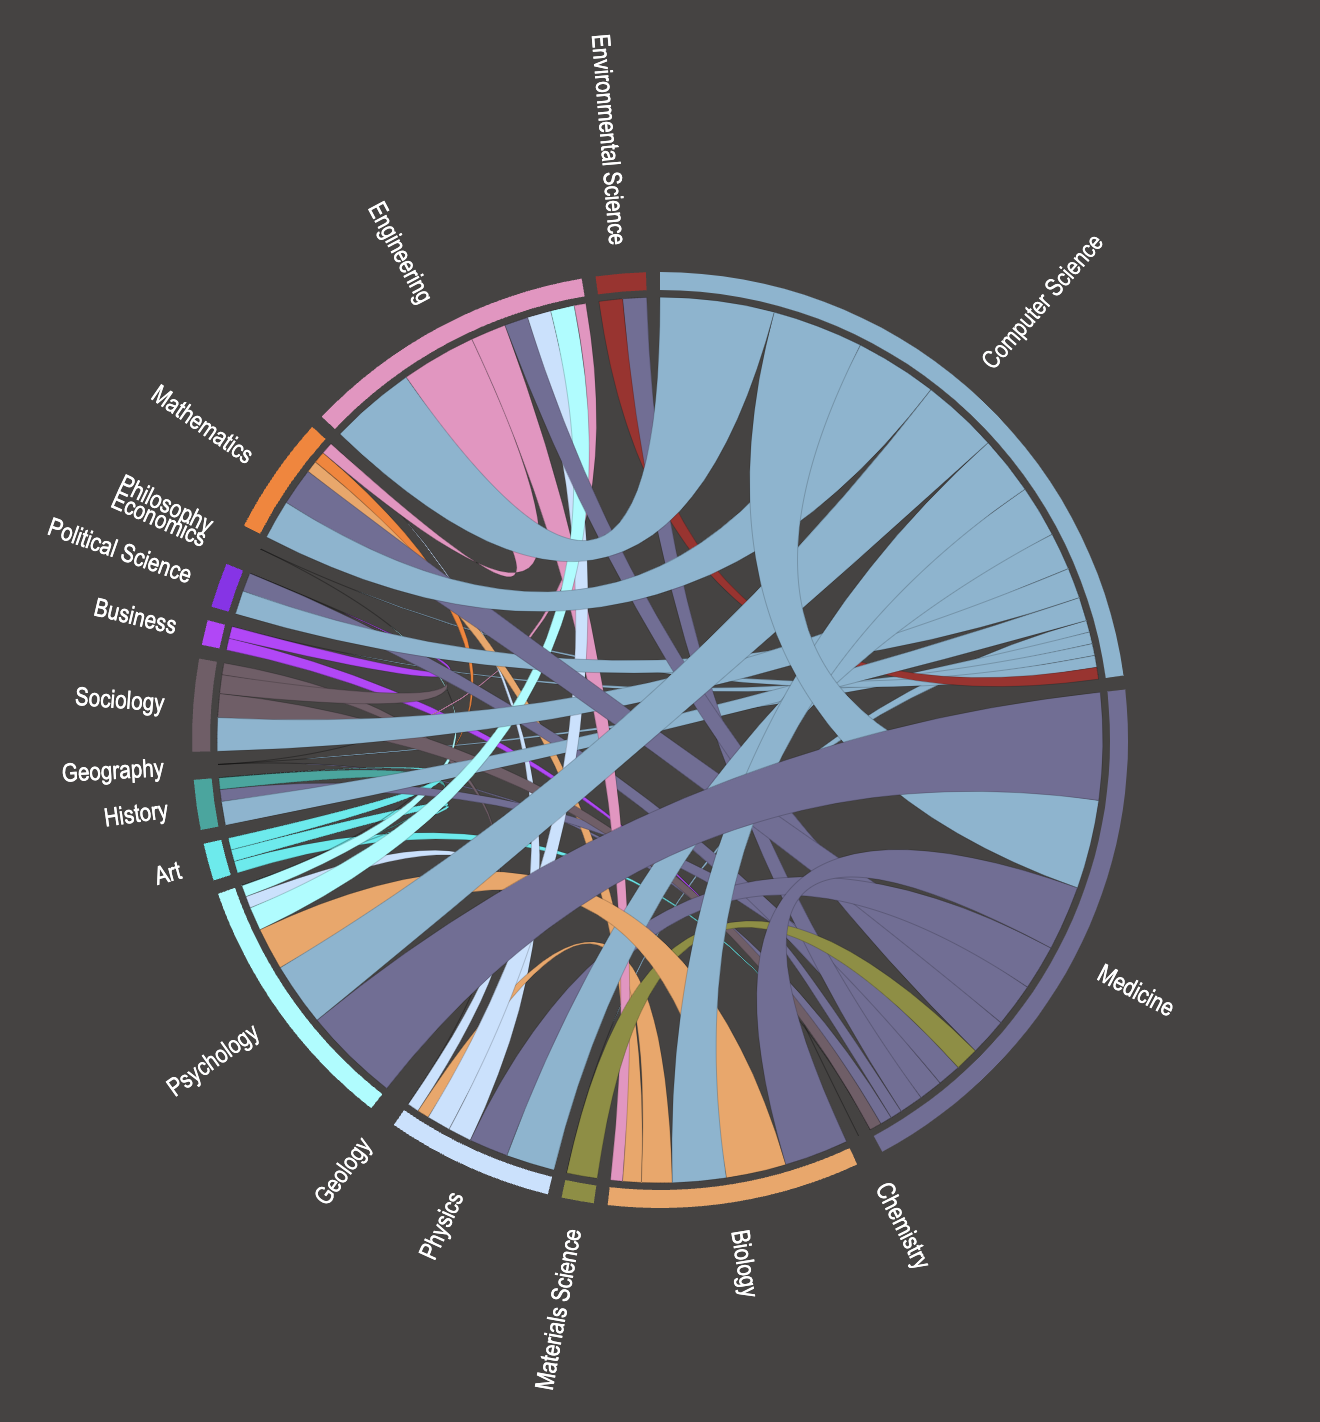
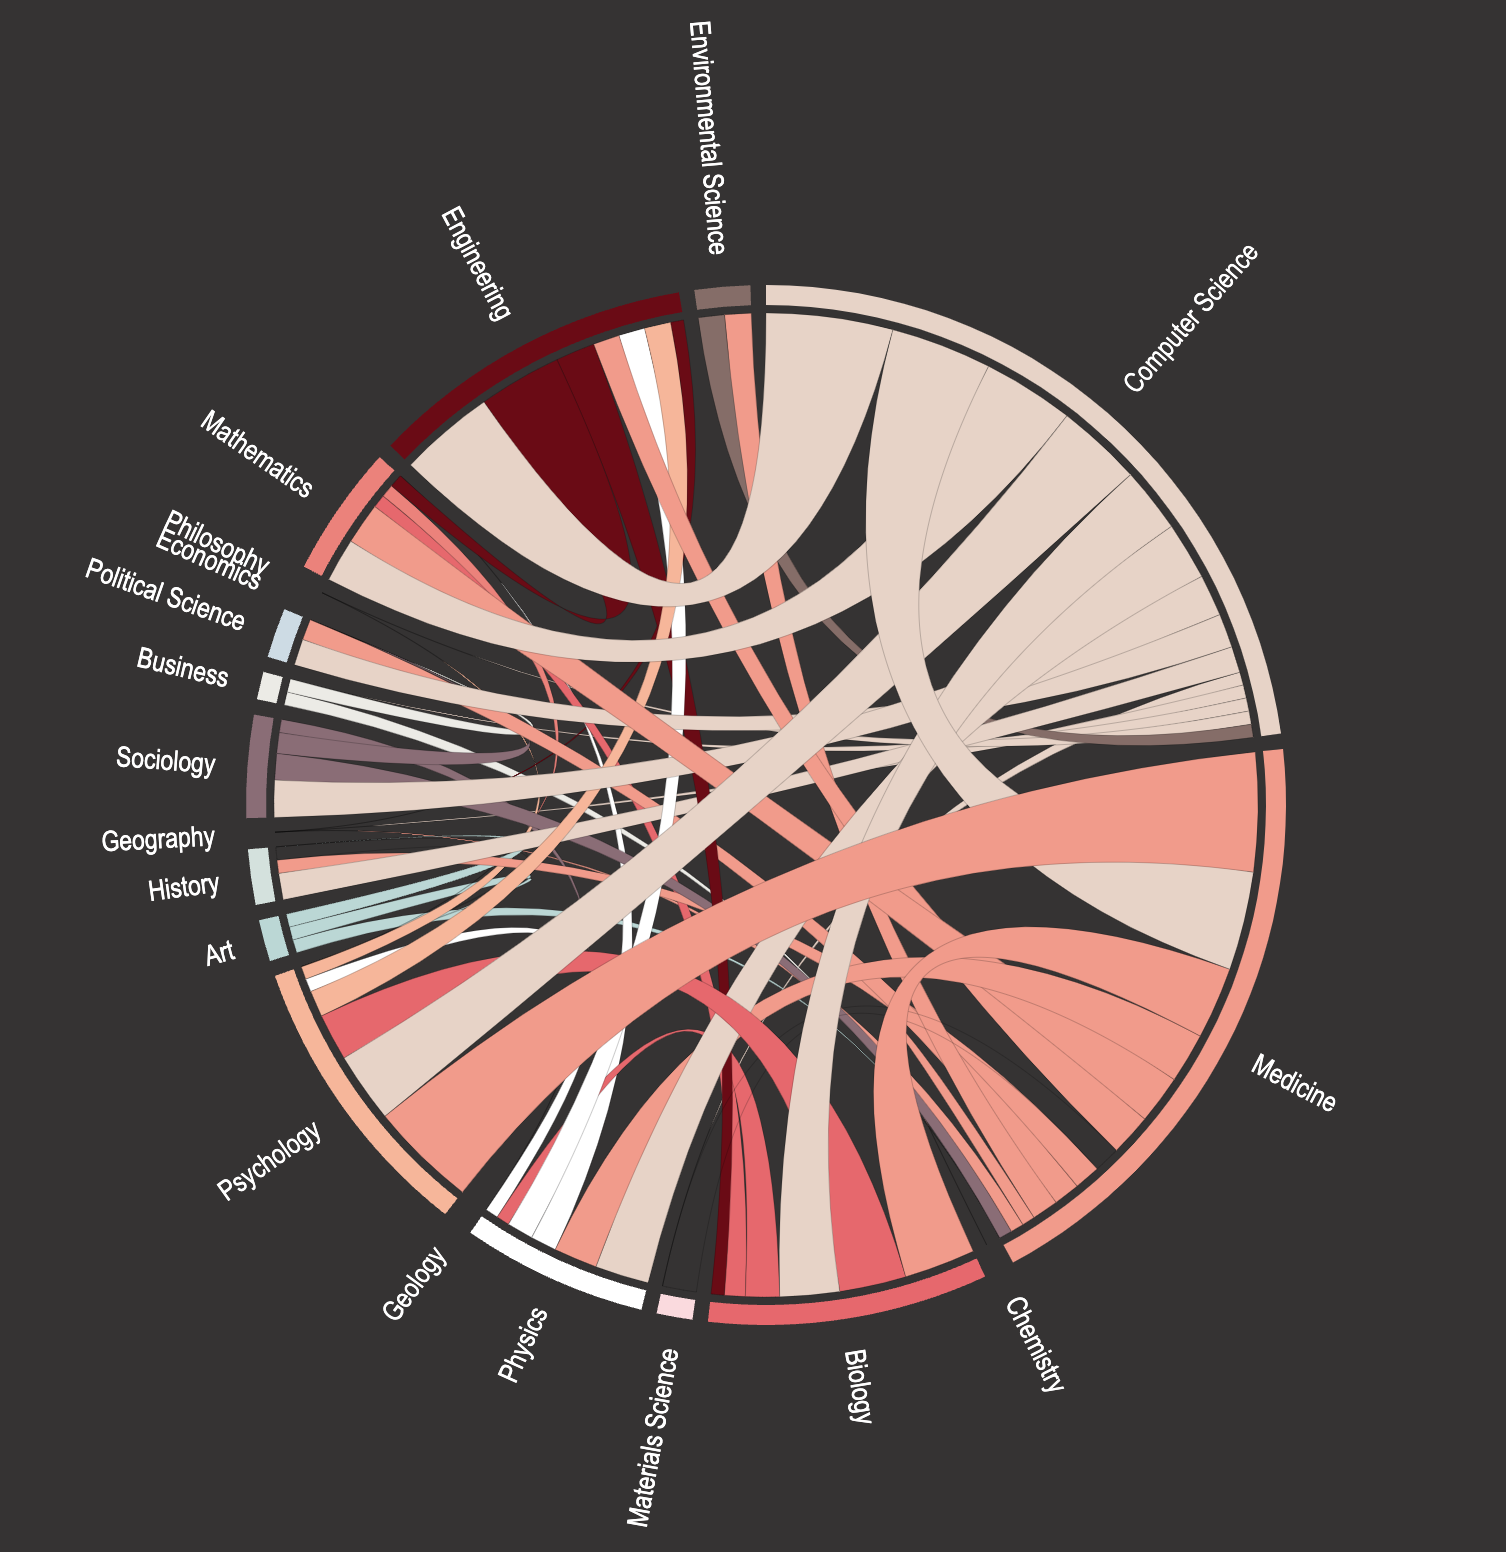
update chord color

diff --git a/public/chord/index.html b/public/chord/index.html
@@ -25,8 +25,8 @@
                               $(this).addClass('current');
                          });
   </script>
-<!--The data comes from FAO Yearbooks on fisheries http://www.fao.org/fishery/publications/yearbooks/en-->
-<!--Created by Luz K. Molina, www.databayou.com-->
+
+
     <div id="legend">
 
       <table class="table1">
@@ -37,34 +37,21 @@
                      </td>  
         </tr>
         <tr>
-          <td bgcolor="#FF00FF" width="10%">
+          <td bgcolor="#eddcd2" width="10%">
                     </td>
                     <td><a class="two" id="NA" href = "#">Computer Science</a>
-                        <!-- <table class="table2">
-                            <tr>
-                                <td><h3>Major field number</h3></td>
-                            </tr>
-                            <tr>
-                                <td width="90%"></td>
-                            </tr>
-                        </table> -->
+                        
                      </td>  
         </tr> 
                 <tr>
-          <td bgcolor="#0000FF">
+          <td bgcolor="#f8ad9d">
                     </td>
                     <td><a class="two" id="NA" href = "#">Medicine</a>
-                         <!-- <table class="table2">
-                            <tr>
-                                <td><h3>Countries</h3></td>
-                            </tr>
-                            <tr>  <td>Austria</br>Belgium</br>Denmark</br>Finland</br>France</br>Germany</br>Greece</br>Ireland</br>Italy</br>Luxembourg</br>Netherlands</br>Portugal</br>Spain</br>Sweden</br>UK</br>Bulgaria</br>Cyprus</br>Czech</br>Estonia</br>Hungary</br>Latvia</br>Lithuania</br>Malta</br>Poland</br>Romania</br>Slovakia</br>Slovenia</td>
-                            </tr>
-                        </table> -->
+                         
                      </td>  
         </tr>
                 <tr>
-          <td bgcolor="#6495ED">
+          <td bgcolor="#FBC4AB">
                     </td>
                     <td><a class="two" id="NA" href = "#">Chemistry</a>
                          <!-- <table class="table2">
@@ -78,7 +65,7 @@
                      </td>  
         </tr>
                 <tr>
-          <td bgcolor="#F4A460">
+          <td bgcolor="#f08080">
                     </td>
                     <td><a class="two" id="NA" href = "#">Biology</a>
                          <!-- <table class="table2">
@@ -92,7 +79,7 @@
                      </td>  
         </tr>
                 <tr>
-          <td bgcolor="#8E8E38">
+          <td bgcolor="#fde2e4">
                     </td>
                     <td><a class="two" id="NA" href = "#">Materials Science</a>
                          <!-- <table class="table2">
@@ -106,7 +93,7 @@
                      </td>  
         </tr>
                 <tr>
-          <td bgcolor="#C6E2FF">
+          <td bgcolor="#ffffff">
                     </td>
                     <td><a class="two" id="NA" href = "#">Physics</a>
                          <!-- <table class="table2">
@@ -120,7 +107,7 @@
                      </td>  
         </tr>
                 <tr>
-          <td bgcolor="#D8BFD8">
+          <td bgcolor="#fad2e1">
                     </td>
                     <td><a class="two" id="NA" href = "#">Geology</a>
                          <!-- <table class="table2">
@@ -134,7 +121,7 @@
                      </td>  
         </tr>
                 <tr>
-          <td bgcolor="#97FFFF">
+          <td bgcolor="#fbc4ab">
                     </td>
                     <td><a class="two" id="NA" href = "#">Psychology</a>
                          <!-- <table class="table2">
@@ -148,7 +135,7 @@
                      </td>  
         </tr>
                 <tr>
-          <td bgcolor="#00EEEE">
+          <td bgcolor="#c5dedd">
                     </td></td>
                     <td><a class="two" id="NA" href = "#">Art</a>
                          <!-- <table class="table2">
@@ -162,7 +149,7 @@
                      </td>  
         </tr>
                 <tr>
-          <td bgcolor="#03A89E">
+          <td bgcolor="#dbe7e4">
                     </td>
                     <td><a class="two" id="NA" href = "#">History</a>
                          <!-- <table class="table2">
@@ -176,7 +163,7 @@
                      </td>  
         </tr>
                 <tr>
-          <td bgcolor="#00FF7F">
+          <td bgcolor="#ffdab9">
                     </td>
                     <td><a class="two" id="NA" href = "#">Geography</a>
                          <!-- <table class="table2">
@@ -190,7 +177,7 @@
                      </td>  
         </tr>
                 <tr>
-          <td bgcolor="#800080">
+          <td bgcolor="#9d8189">
                     </td>
                     <td><a class="two" id="NA" href = "#">Sociology</a>
                          <!-- <table class="table2">
@@ -204,7 +191,7 @@
                      </td>  
         </tr>
                 <tr>
-          <td bgcolor="#BF3EFF">
+          <td bgcolor="#f0efeb">
                     </td>
                     <td><a class="two" id="NA" href = "#">Business</a>
                          <!-- <table class="table2">
@@ -218,7 +205,7 @@
                      </td>  
         </tr>                
                 <tr>
-          <td bgcolor="#912CEE">
+          <td bgcolor="#d6e2e9">
                     </td>
                     <td><a class="two" id="NA" href = "#">Political Science</a>
                          <!-- <table class="table2">
@@ -232,7 +219,7 @@
                      </td>  
         </tr>
                 <tr>
-          <td bgcolor="#FFFF00">
+          <td bgcolor="#bcd4e6">
                     </td>
                     <td><a class="two" id="NA" href = "#">Economics</a>
                          <!-- <table class="table2">
@@ -246,7 +233,7 @@
                      </td>  
         </tr>
                 <tr>
-          <td bgcolor="#FF7256">
+          <td bgcolor="#99c1de">
                     </td>
                     <td><a class="two" id="NA" href = "#">Philosophy</a>
                          <!-- <table class="table2">
@@ -260,7 +247,7 @@
                      </td>  
         </tr>
                 <tr>
-          <td bgcolor="#FF7F24">
+          <td bgcolor="#f4978e">
                     </td>
                     <td><a class="two" id="NA" href = "#">Mathematics</a>
                          <!-- <table class="table2">
@@ -274,7 +261,7 @@
                      </td>  
         </tr>
                 <tr>
-          <td bgcolor="#FF3030">
+          <td bgcolor="#81171b">
                     </td>
                     <td><a class="two" id="NA" href = "#">Engineering</a>
                          <!-- <table class="table2">
@@ -288,7 +275,7 @@
                      </td>  
         </tr>
                 <tr>
-          <td bgcolor="#A52A2A">
+          <td bgcolor="#98817B">
                     </td>
                     <td><a class="two" id="NA" href = "#">Environmental Science</a>
                          <!-- <table class="table2">
